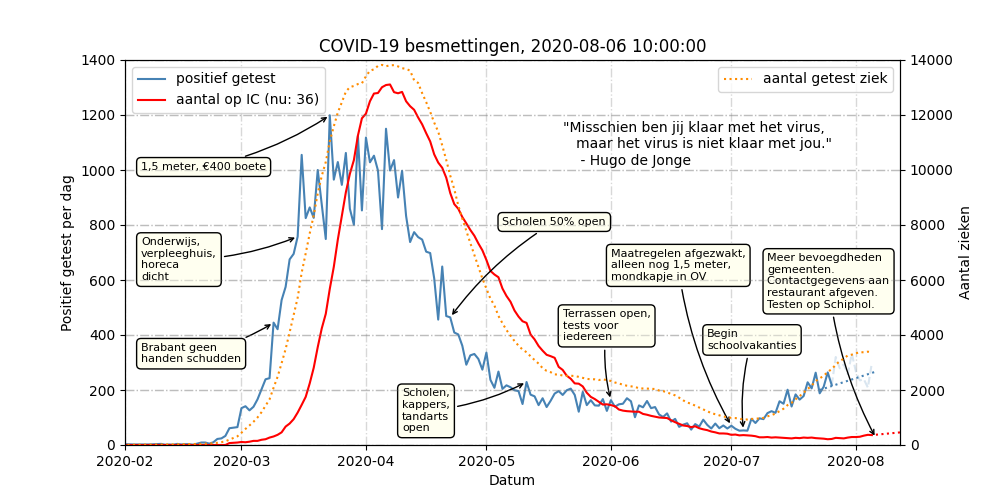
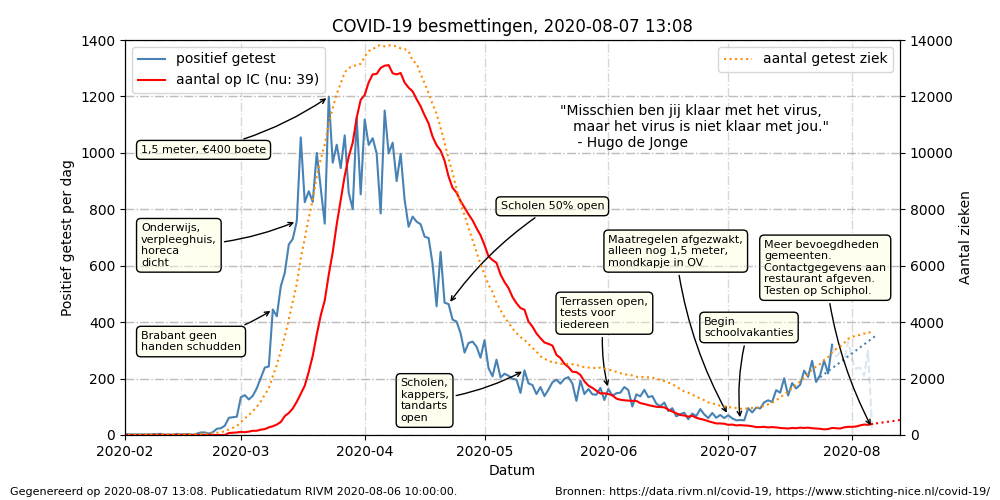
Ran getDailyExcelData

diff --git a/scripts/createGraph.py b/scripts/createGraph.py
@@ -194,6 +194,8 @@ def anotate(plt, metenisweten, datum, tekst, x, y):
 
 
 fig, ax1 = plt.subplots(figsize=(10, 5))
+fig.subplots_adjust(top=0.92, bottom=0.13)
+
 ax2 = plt.twinx()
 
 #plt.figure(figsize =(10,5))
@@ -263,7 +265,17 @@ plt.gca().set_xlim([parser.parse("2020-02-01"), ic_voorspeld['x'][-1]])
 # ax2.set_yscale('log')
 
 
-plt.title('COVID-19 besmettingen, '+filedate)
+gegenereerd_op=datetime.datetime.now().strftime("%Y-%m-%d %H:%M")
+
+plt.title('COVID-19 besmettingen, '+gegenereerd_op)
+
+footerleft="Gegenereerd op "+gegenereerd_op+". Publicatiedatum RIVM "+filedate+"."
+plt.figtext(0.01, 0.01, footerleft, ha="left", fontsize=8)
+
+footerright="Bronnen: https://data.rivm.nl/covid-19, https://www.stichting-nice.nl/covid-19/"
+plt.figtext(0.99, 0.01, footerright, ha="right", fontsize=8)
+
+
 ax1.legend(loc="upper left")
 ax2.legend(loc="upper right")
 plt.savefig("../graphs/besmettingen.png")
